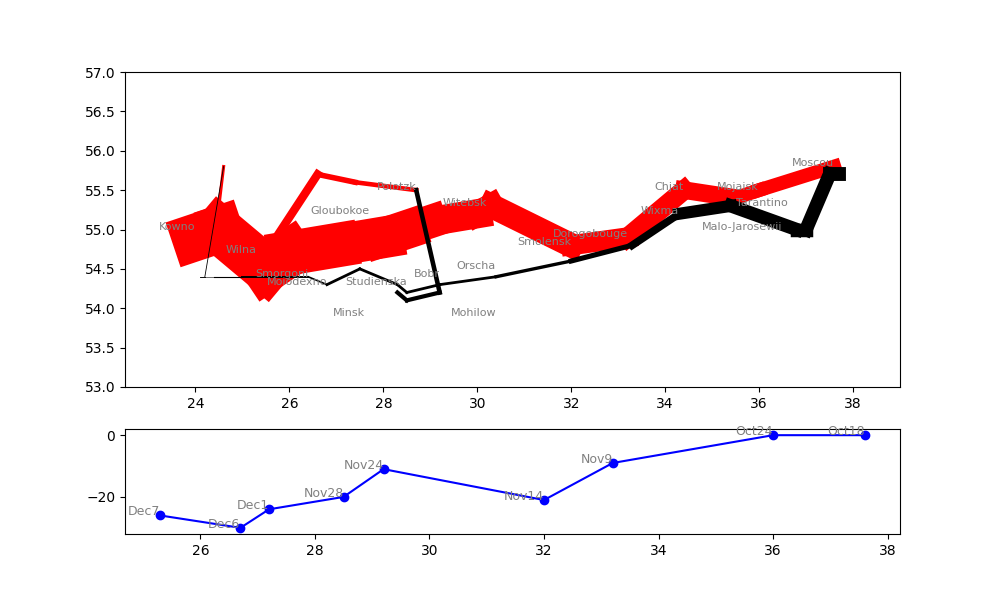
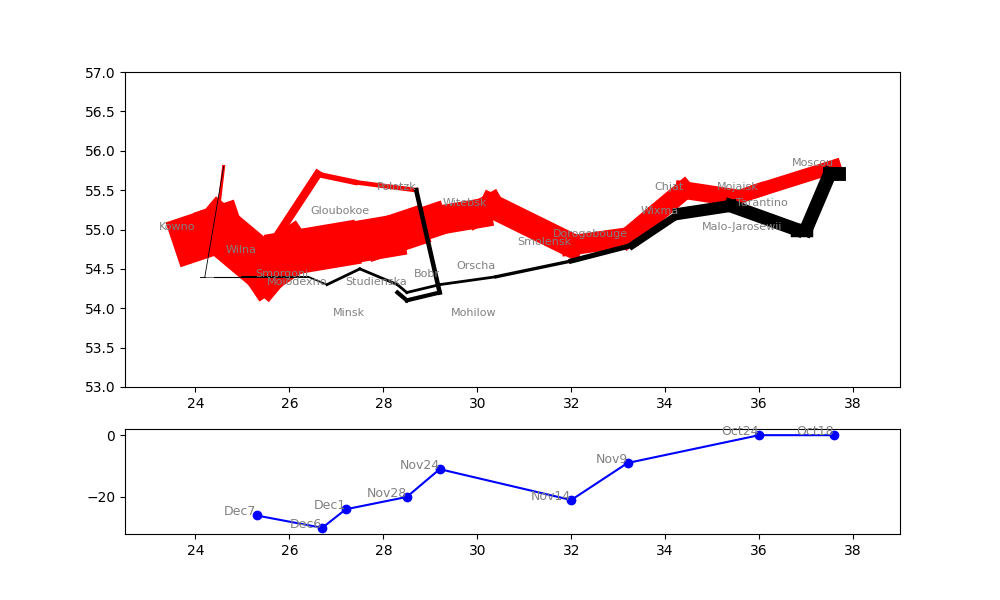
Updated contents

diff --git a/RIT-ISTE782-VisualAnalytics/Assignment 1/minard.py b/RIT-ISTE782-VisualAnalytics/Assignment 1/minard.py
@@ -32,14 +32,7 @@ for i in range(3):
         ax_1.plot(plot_data[i]["long"].values[j:j + 2], plot_data[i]["lat"].values[j:j + 2], color="red",
                      linewidth=line_widths[j])
 
-# plt.figure(figsize=(10, 5))
-# plt.ylim(53, 57)
-# plt.xlim(22.5, 39)
-# for i in range(3):
-#     line_widths = plot_data[i]["survivors"].values / 10000
-#     for j in range(len(plot_data[i]) - 1):
-#         plt.plot(plot_data[i]["long"].values[j:j + 2], plot_data[i]["lat"].values[j:j + 2], color="red",
-#                  linewidth=line_widths[j])
+
 retreat = data_troops["direction"].values == "R"
 plot_data = data_troops[retreat]
 plot_data = [plot_data[:19], plot_data[19:23], plot_data[23:]]
@@ -58,6 +51,7 @@ Step 3: draw the second graph (temperature)
 """
 plot_data = data_temps.sort_values("long")
 ax_2.set_ylim(-32, 2)
+ax_2.set_xlim(22.5, 39)
 ax_2.plot(plot_data["long"], plot_data["temp"], marker="o", color="blue")
 for i in range(len(plot_data)):
     ax_2.text(plot_data["long"].values[i], plot_data["temp"].values[i], f'{plot_data["month"].values[i]}{plot_data["day"].values[i]}', fontsize=9,
@@ -71,3 +65,4 @@ Step 4: Add labels to both graphs
 """
 Step 5: Combine the graphs in a FacetGrid
 """
+# combined with Step 2 and Step 3
